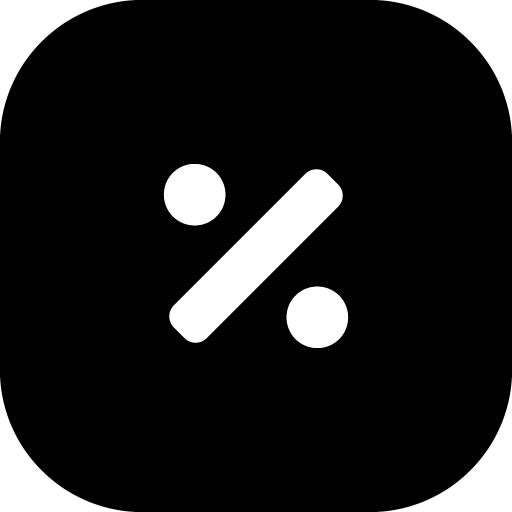
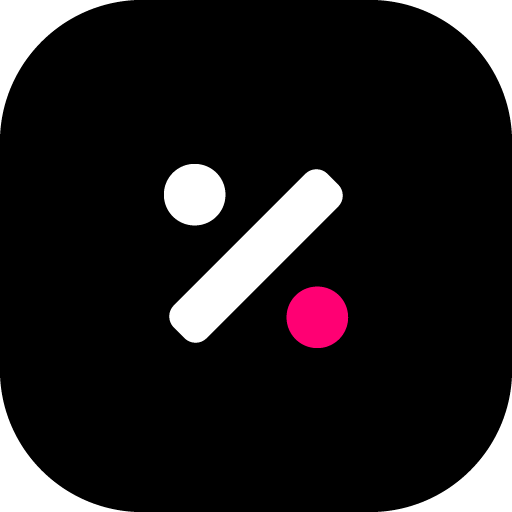
アイコンの変更とスプラッシュスクリーンの追加

Changed region(s): [[0.5625, 0.5625, 0.6875, 0.6875]]

diff --git a/index.html b/index.html
@@ -7,35 +7,67 @@
     <meta name="apple-mobile-web-app-status-bar-style" content="black" />
     <title>Dentaku</title>
     <link rel="stylesheet" href="index.css" />
-    <link
-      rel="apple-touch-icon"
-      sizes="180x180"
-      href="apple-touch-icon.png"
-    />
-    <link
-      rel="icon"
-      type="image/png"
-      sizes="32x32"
-      href="favicon-32x32.png"
-    />
-    <link
-      rel="icon"
-      type="image/png"
-      sizes="16x16"
-      href="favicon-16x16.png"
-    />
+    <link rel="apple-touch-icon" sizes="180x180" href="apple-touch-icon.png" />
+    <link rel="icon" type="image/png" sizes="32x32" href="favicon-32x32.png" />
+    <link rel="icon" type="image/png" sizes="16x16" href="favicon-16x16.png" />
     <link rel="manifest" href="site.webmanifest" />
-    <link
-      rel="mask-icon"
-      href="safari-pinned-tab.svg"
-      color="#282828"
-    />
+    <link rel="mask-icon" href="safari-pinned-tab.svg" color="#282828" />
     <link rel="shortcut icon" href="favicon.ico" />
     <meta name="apple-mobile-web-app-title" content="Dentaku" />
     <meta name="application-name" content="Dentaku" />
     <meta name="msapplication-TileColor" content="#000000" />
     <meta name="msapplication-config" content="browserconfig.xml" />
     <meta name="theme-color" content="#ffffff" />
+    <link
+      href="splashscreens/iphone5_splash.png"
+      media="(device-width: 320px) and (device-height: 568px) and (-webkit-device-pixel-ratio: 2)"
+      rel="apple-touch-startup-image"
+    />
+    <link
+      href="splashscreens/iphone6_splash.png"
+      media="(device-width: 375px) and (device-height: 667px) and (-webkit-device-pixel-ratio: 2)"
+      rel="apple-touch-startup-image"
+    />
+    <link
+      href="splashscreens/iphoneplus_splash.png"
+      media="(device-width: 621px) and (device-height: 1104px) and (-webkit-device-pixel-ratio: 3)"
+      rel="apple-touch-startup-image"
+    />
+    <link
+      href="splashscreens/iphonex_splash.png"
+      media="(device-width: 375px) and (device-height: 812px) and (-webkit-device-pixel-ratio: 3)"
+      rel="apple-touch-startup-image"
+    />
+    <link
+      href="splashscreens/iphonexr_splash.png"
+      media="(device-width: 414px) and (device-height: 896px) and (-webkit-device-pixel-ratio: 2)"
+      rel="apple-touch-startup-image"
+    />
+    <link
+      href="splashscreens/iphonexsmax_splash.png"
+      media="(device-width: 414px) and (device-height: 896px) and (-webkit-device-pixel-ratio: 3)"
+      rel="apple-touch-startup-image"
+    />
+    <link
+      href="splashscreens/ipad_splash.png"
+      media="(device-width: 768px) and (device-height: 1024px) and (-webkit-device-pixel-ratio: 2)"
+      rel="apple-touch-startup-image"
+    />
+    <link
+      href="splashscreens/ipadpro1_splash.png"
+      media="(device-width: 834px) and (device-height: 1112px) and (-webkit-device-pixel-ratio: 2)"
+      rel="apple-touch-startup-image"
+    />
+    <link
+      href="splashscreens/ipadpro3_splash.png"
+      media="(device-width: 834px) and (device-height: 1194px) and (-webkit-device-pixel-ratio: 2)"
+      rel="apple-touch-startup-image"
+    />
+    <link
+      href="splashscreens/ipadpro2_splash.png"
+      media="(device-width: 1024px) and (device-height: 1366px) and (-webkit-device-pixel-ratio: 2)"
+      rel="apple-touch-startup-image"
+    />
   </head>
   <body>
     <div id="app"></div>
